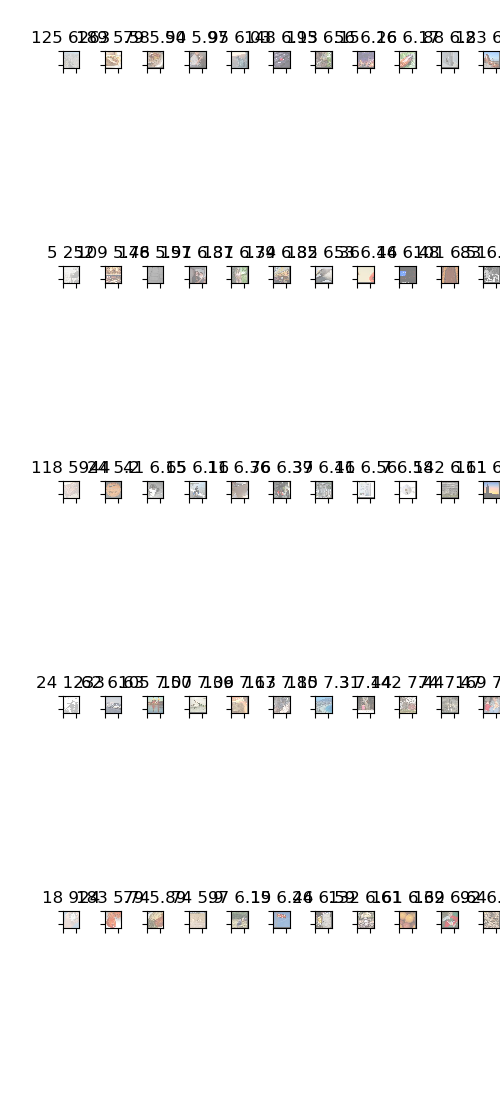
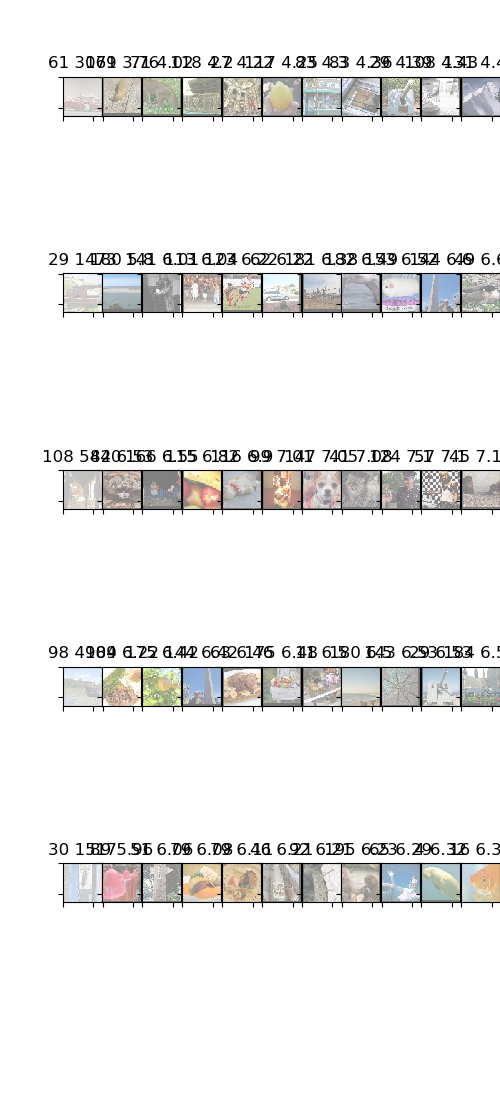
Added images

diff --git a/grapher.py b/grapher.py
@@ -24,7 +24,7 @@ def show_figures(images, title):
     #plt.figure(figsize=(8, 10))
     fig = plt.figure(figsize=(5, 11))
     gs = gridspec.GridSpec(5, 11)
-    gs.update(wspace=1.5, hspace=0.8, top=1, right=1)
+    gs.update(wspace=0.02, hspace=0.02, top=1, right=1)
     for idx, val in enumerate(images):
         #plt.subplot(11 / 5 + 1, 5, idx + 1)
         #plt.subplots_adjust(top=0.99, bottom=0.01, hspace=1.5, wspace=0.4)
